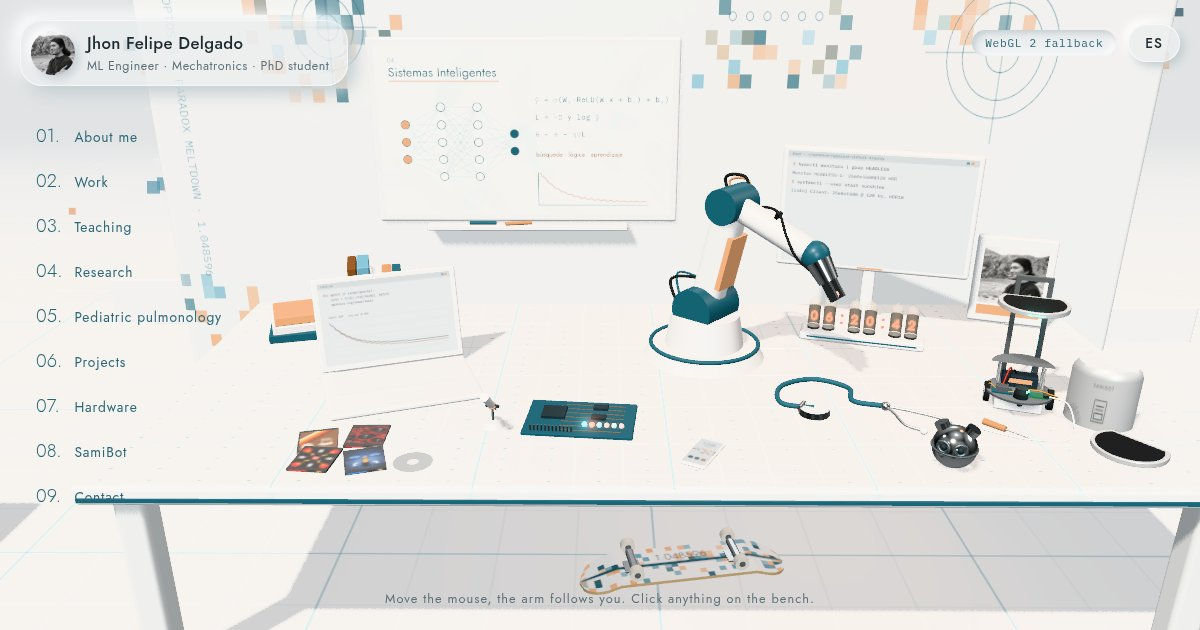
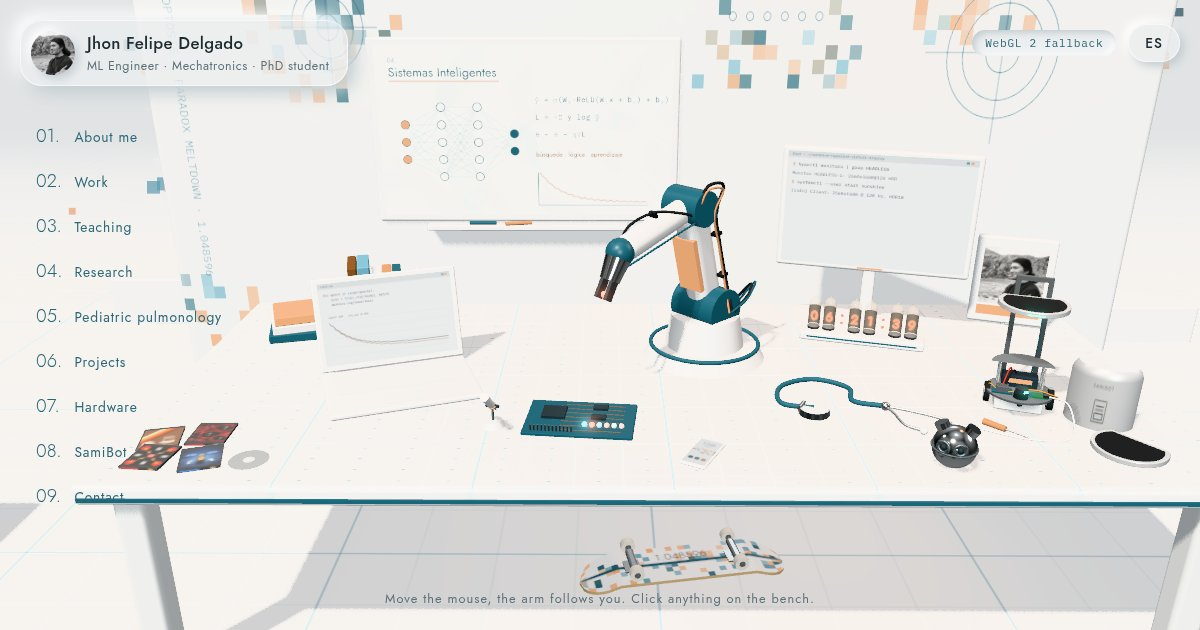
Move the CDs to the left edge of the bench

Changed region(s): [[0.4933, 0.2714, 0.7092, 0.573], [0.0925, 0.6635, 0.37, 0.754], [0.6475, 0.5127, 0.7092, 0.573]]

diff --git a/src/scene/objects.js b/src/scene/objects.js
@@ -945,7 +945,7 @@ export function cds() {
 
 	let spin = 0;
 	return {
-		group: place(g, [-1.02, 0, 0.56], 0.12),
+		group: place(g, [-1.52, 0, 0.55], 0.12),
 		poke() {
 			spin = 40;
 		},
